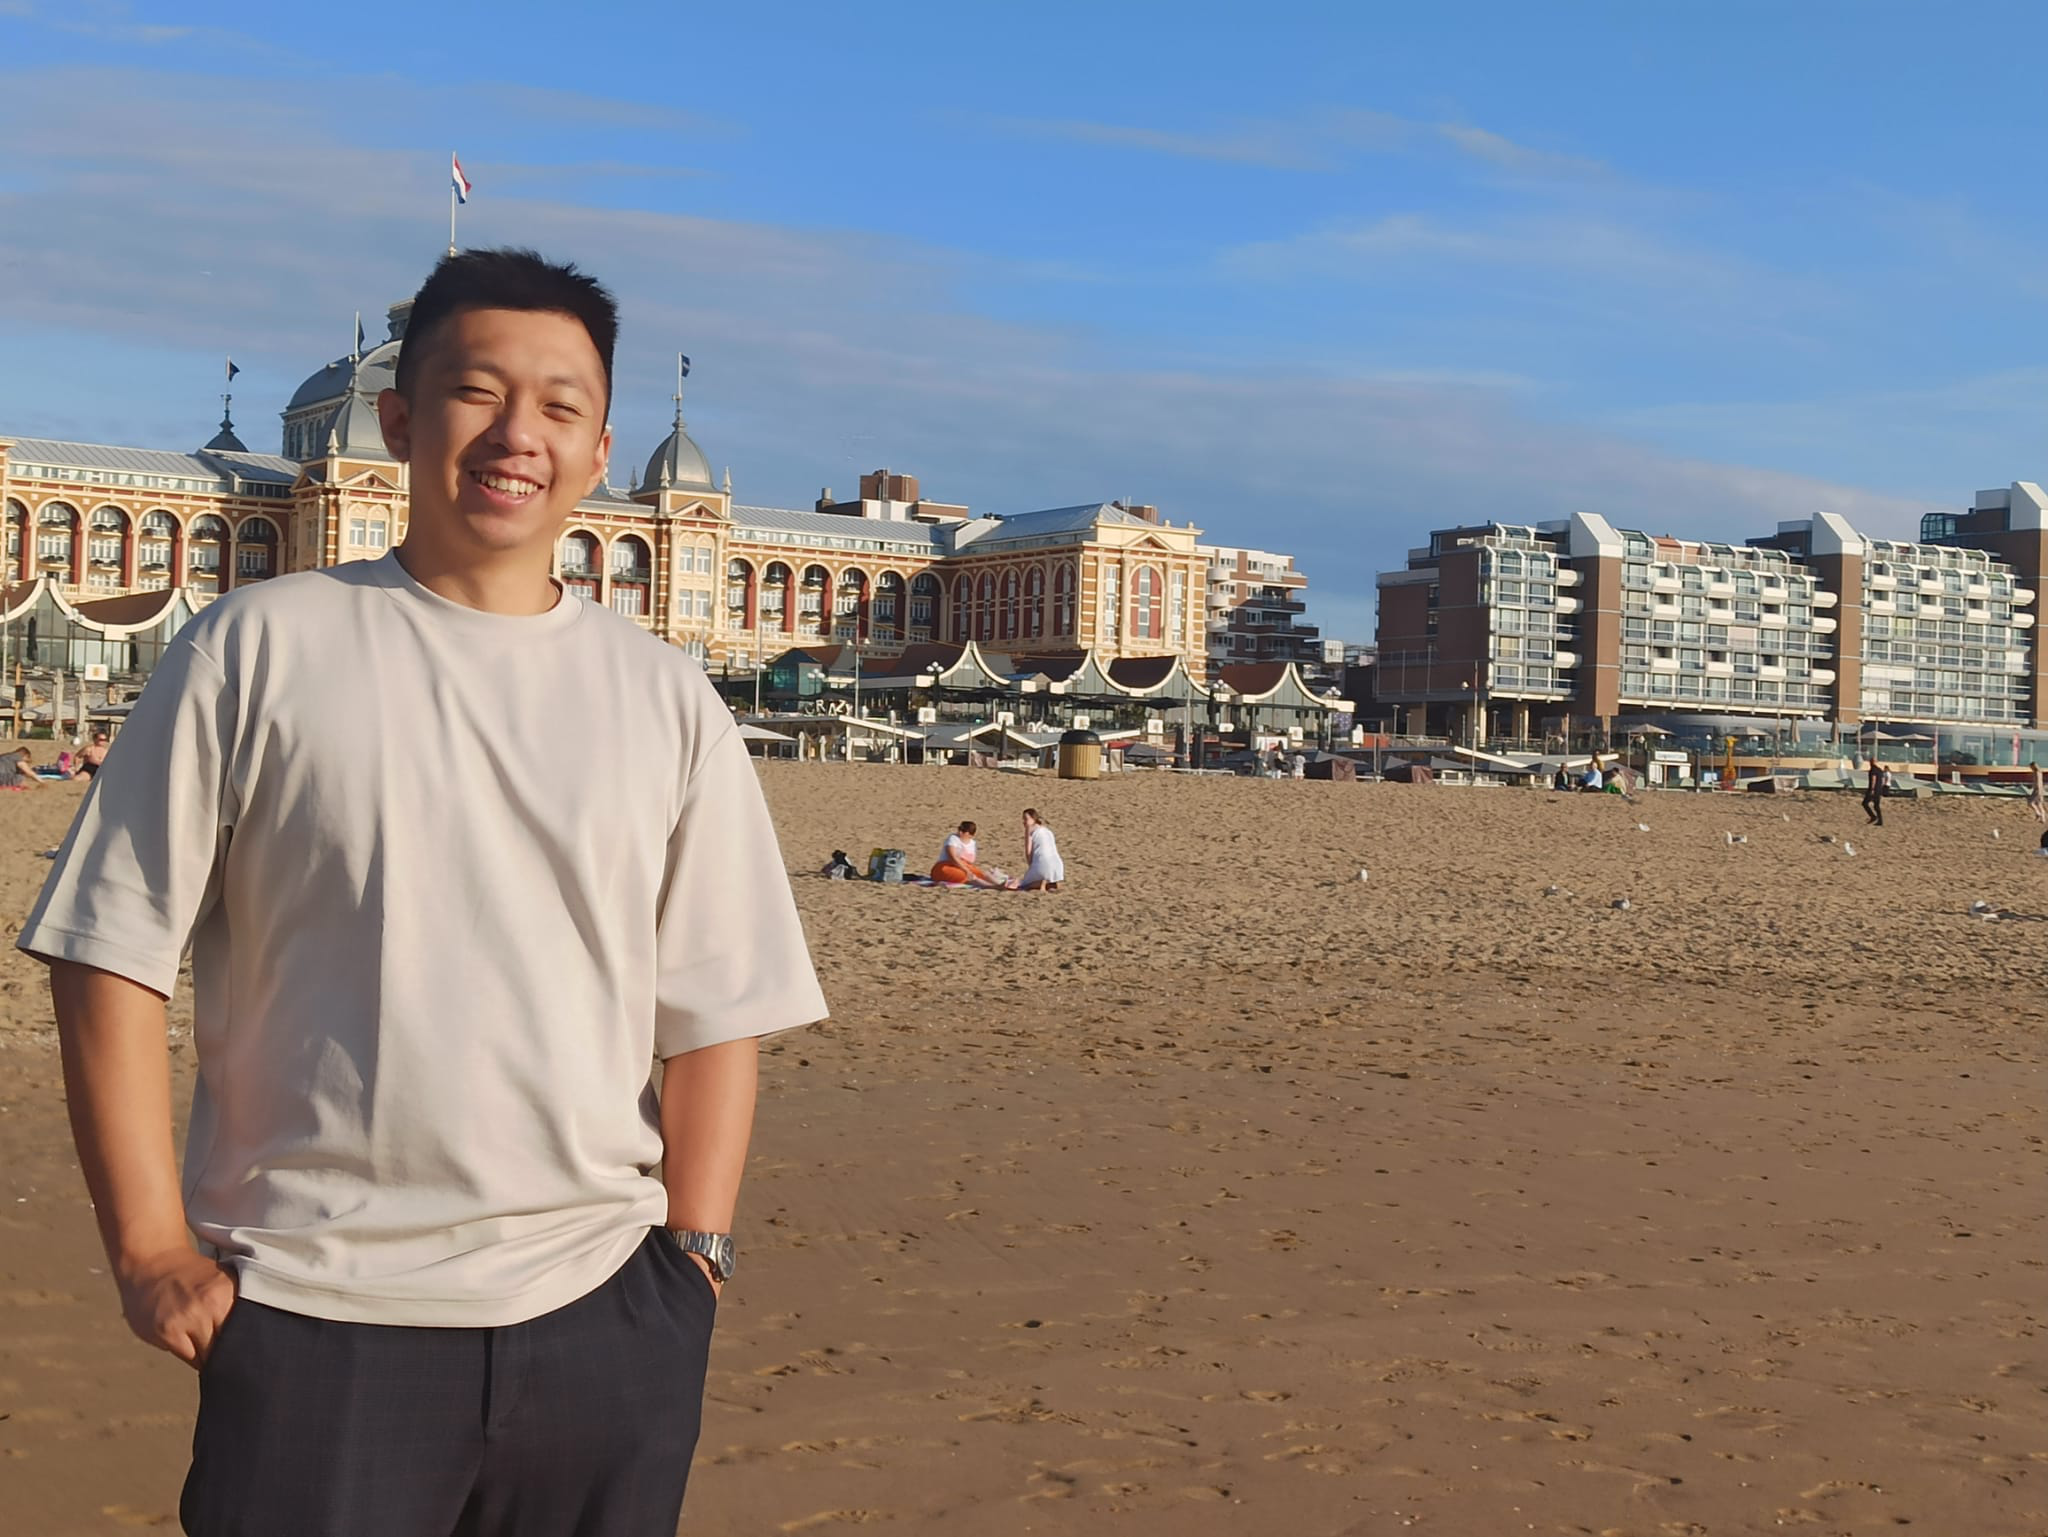
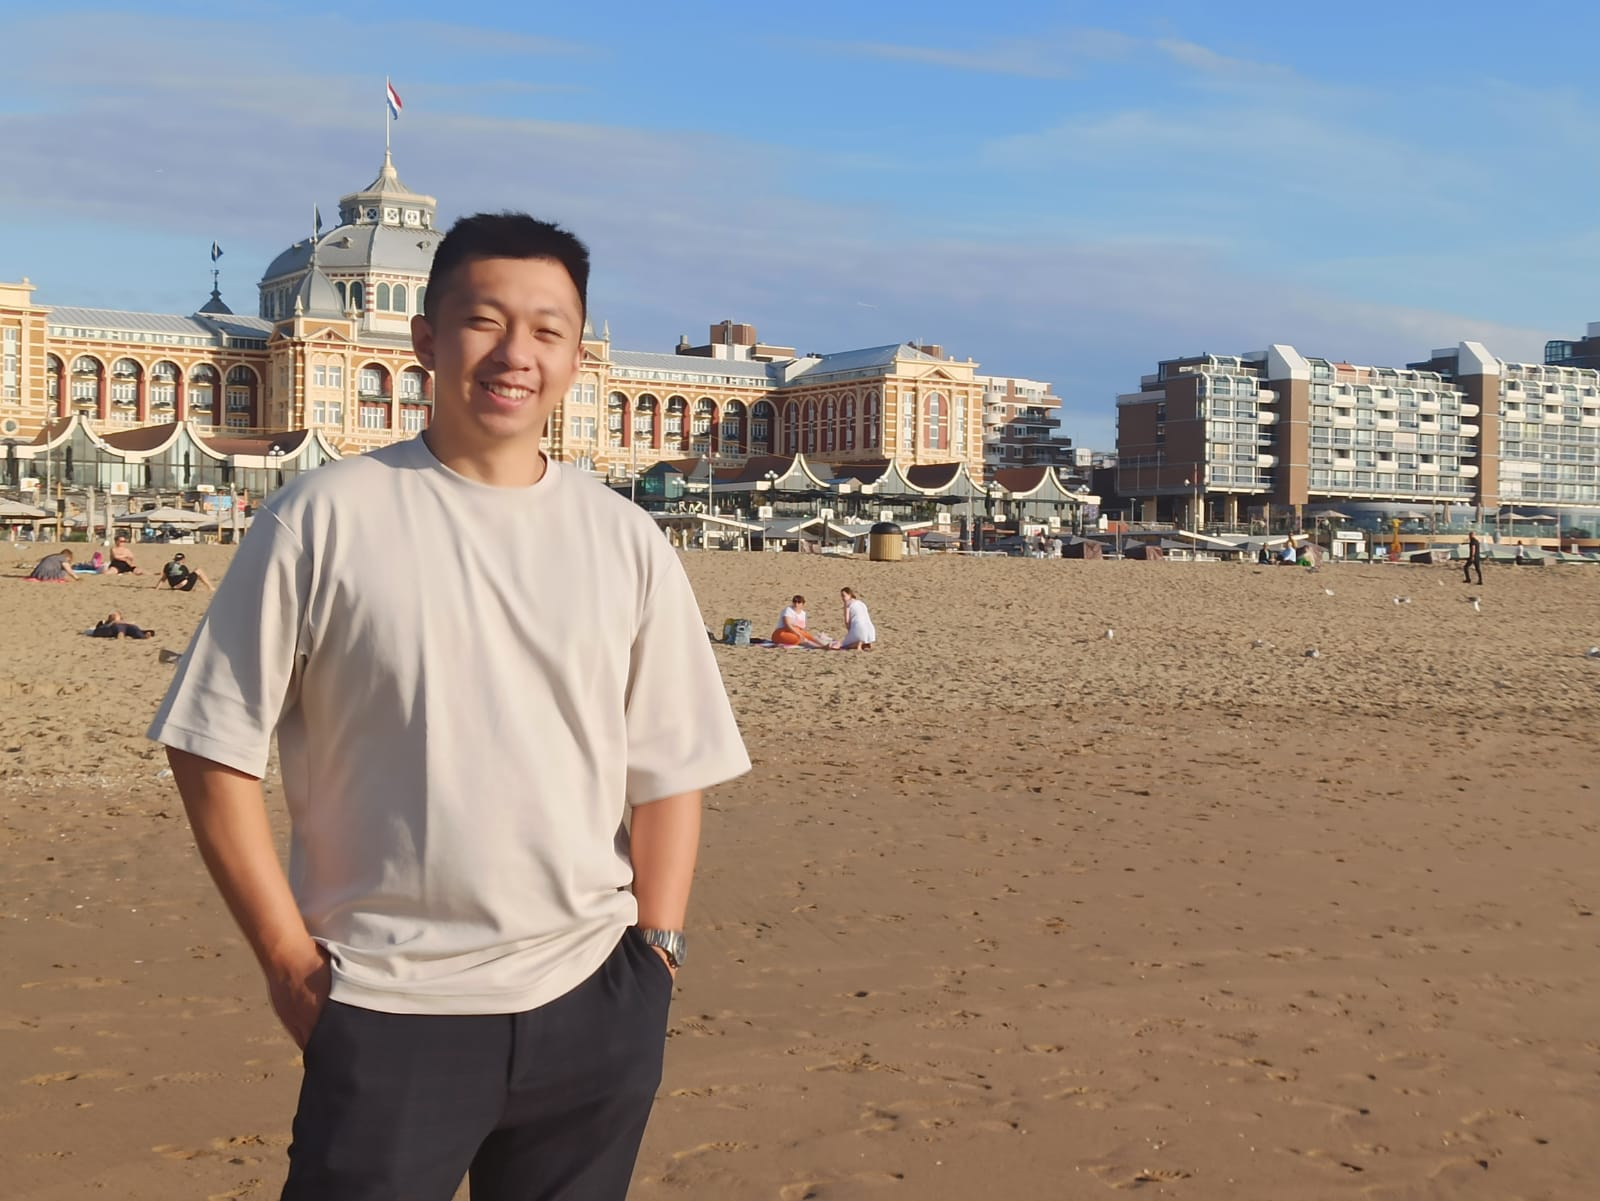
changes carousel display to better display images & replaces image

diff --git a/src/main/resources/templates/fragments/home-page/carousel.html b/src/main/resources/templates/fragments/home-page/carousel.html
@@ -3,7 +3,7 @@
 <head>
 </head>
 <body>
-<div id="carouselExampleCaptions" class="carousel slide " data-bs-ride="carousel" th:fragment="carousel" data-interval="10">
+<div class="carousel slide px-3 pt-5" data-bs-ride="carousel" th:fragment="carousel" data-interval="10">
     <div class="carousel-inner">
         <div class="carousel-item active">
             <img th:src="@{static/images/self_beach.png}"  alt="picture of myself on the beach">

diff --git a/src/main/resources/static/style.css b/src/main/resources/static/style.css
@@ -17,7 +17,7 @@ a, u {
 }
 .carousel-inner {
   height: 0;
-  padding-bottom: 80%; /* aspect ratio */
+  padding-bottom: 100%; /* aspect ratio */
 }
 
 .carousel-item {
@@ -30,7 +30,6 @@ a, u {
 
 .carousel-item img {
   height: 100%;
-  object-fit: cover;
 }
 
 .formal-font{
